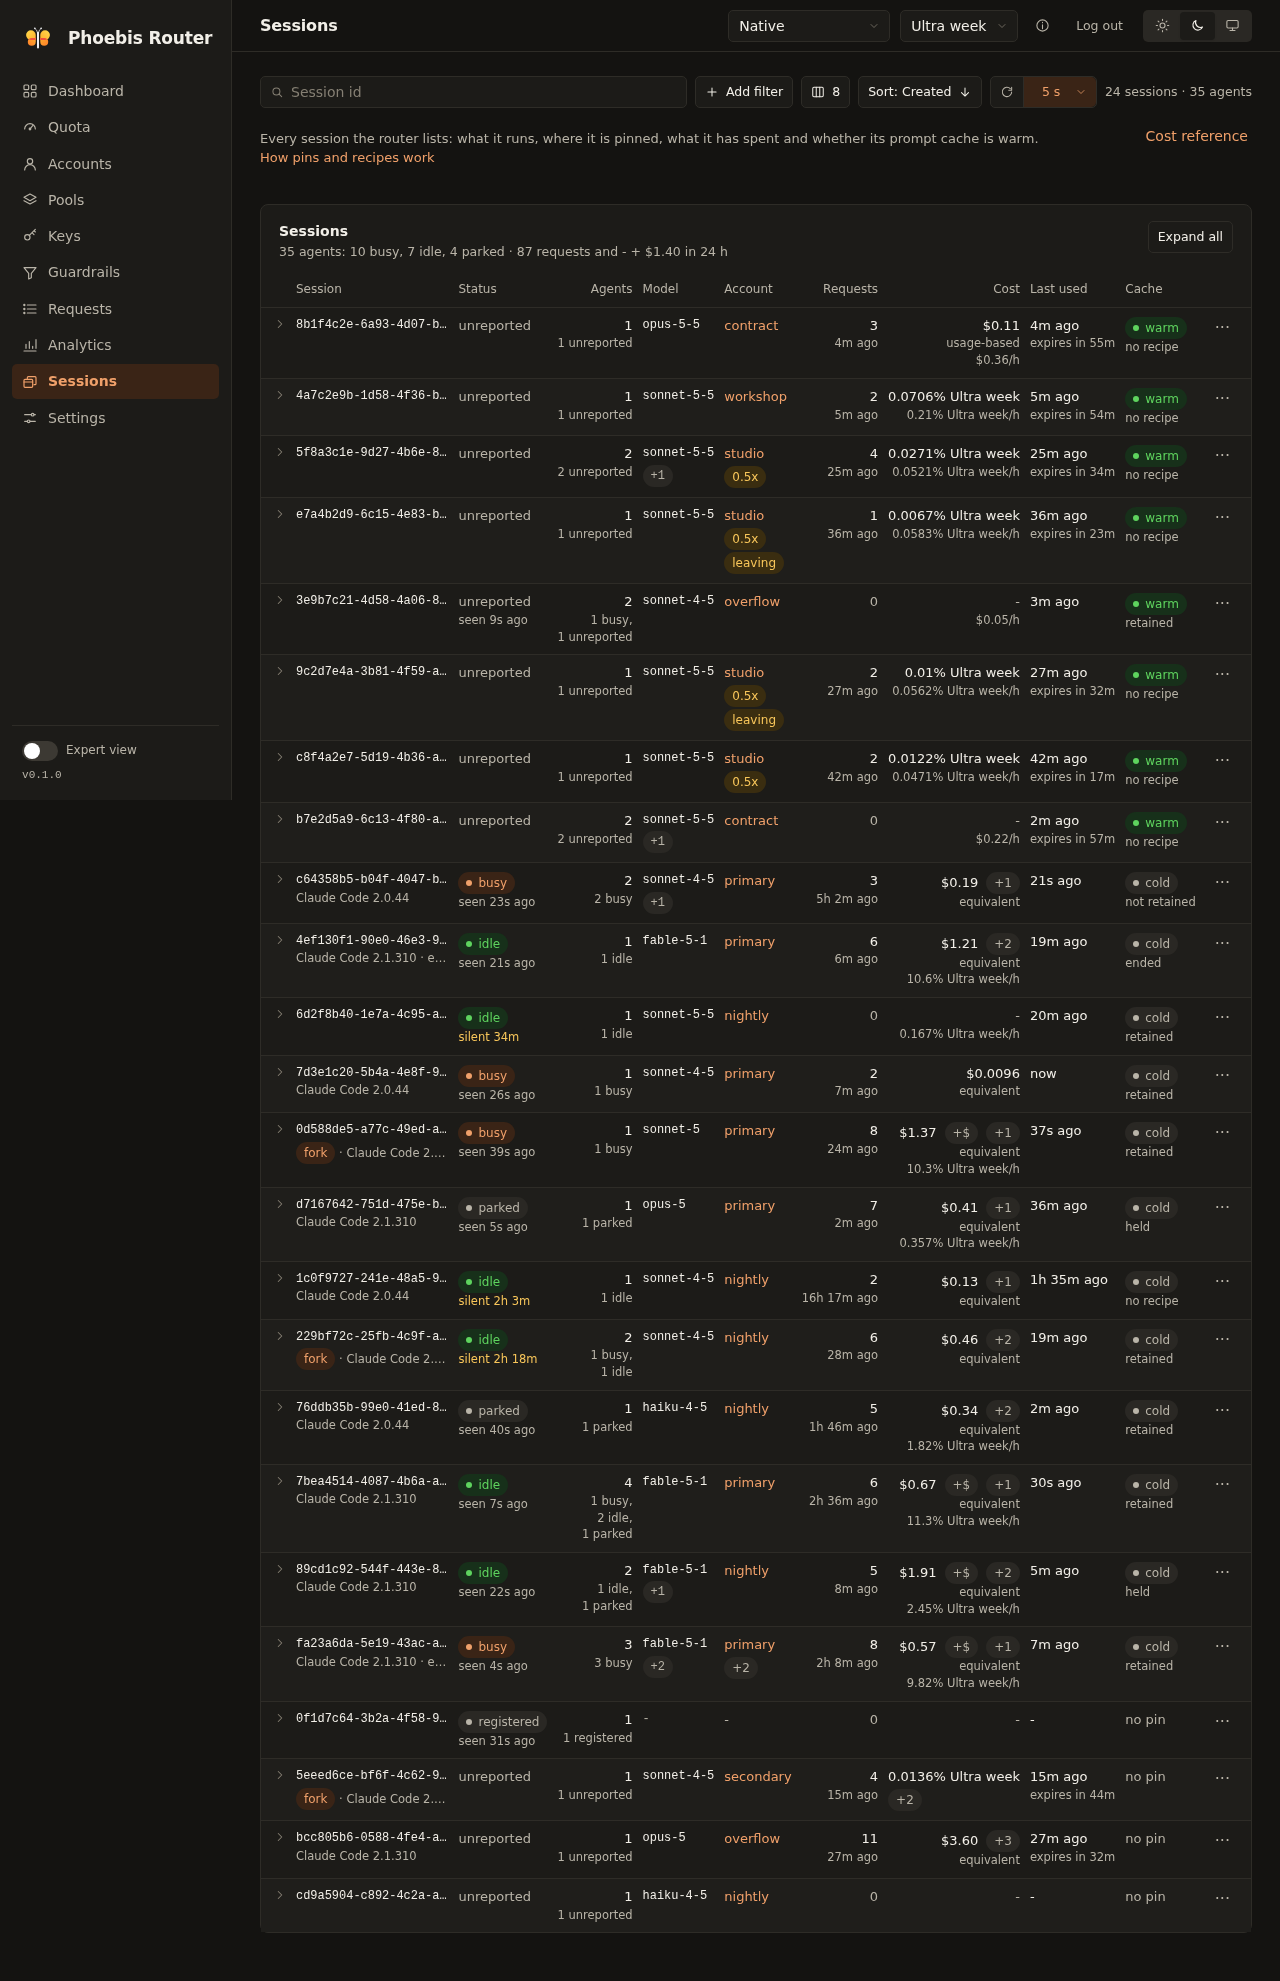
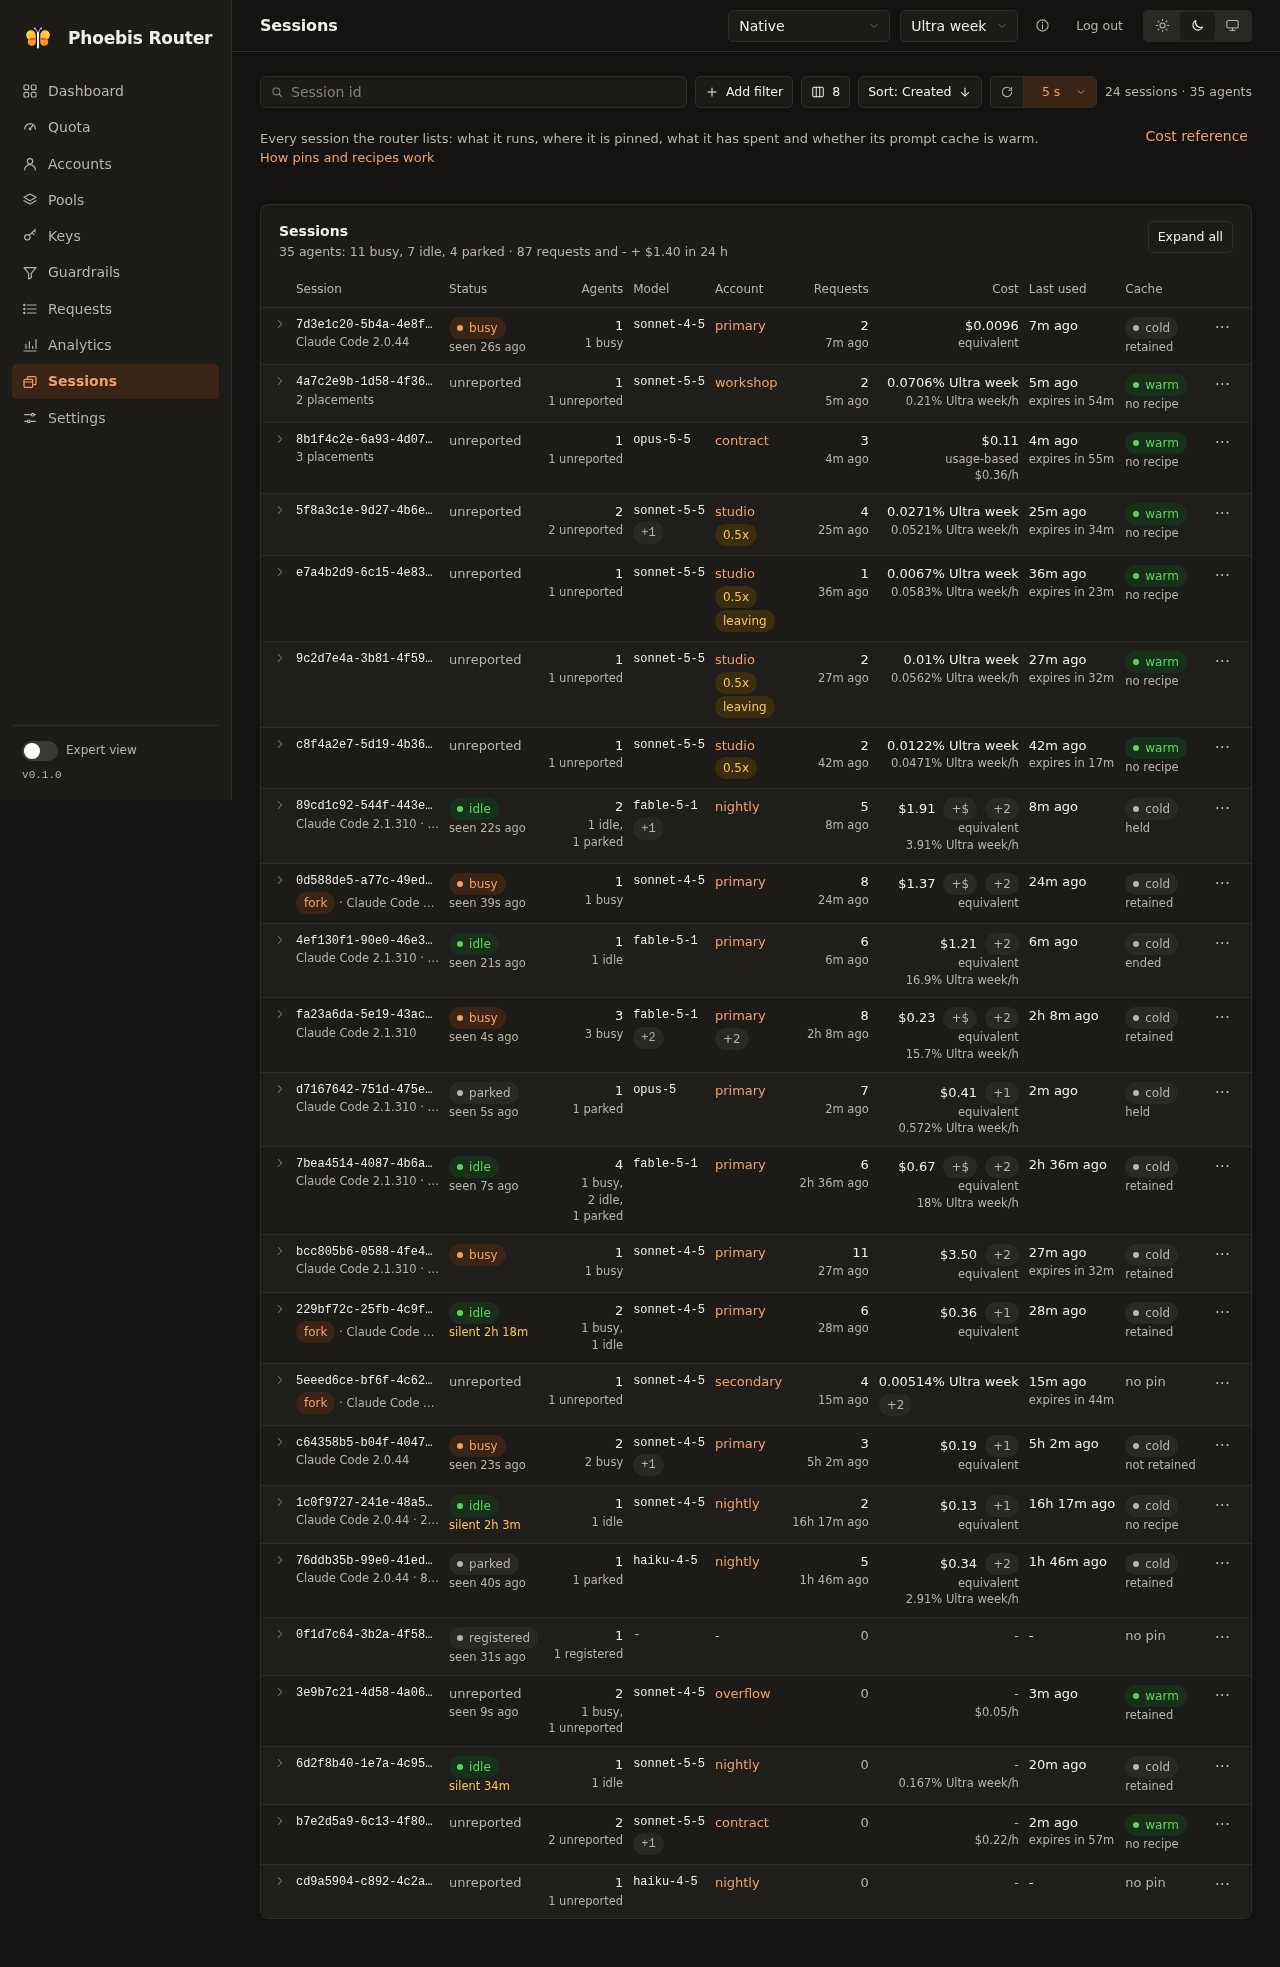
Stop the preview's burn decay at thirty burn averages
The router reads a decayed burn as exactly zero once the pin's last
fold lies more than 30 of its pool's burn averages back, so a
shedding round leaves such a pin out as burning nothing. The Pools
dialog's preview decayed a served burn with no end, so a pin whose
instant lay past that point still walked with a burn a float holds
above zero. The preview's decay now answers zero past the router's
cutoff, by the same strict comparison and the same floor of the
average, and the pin leaves the order and the guard's sum.

The sessions route already serves zero past the cutoff at its read,
so the preview's cutoff holds the rule over the span from the read to
the dialog's clock, and over an older instant a reader hands it.

A new case holds the boundary: an idle pin exactly 30 averages back
still walks as a sliver, and one millisecond further back it leaves,
so the fresh pin's mark would leave its member too little burn.

No pin of the mock lies past the cutoff at its clock, so no figure
the mock draws moves. The Sessions screenshots are retaken: they carry
the view's moves since d740944f6 ("Retake the screenshots of twelve
console views") last took the pair, and the browser pass draws every
shot as it does on the parent commit.

diff --git a/web/src/lib/presets.ts b/web/src/lib/presets.ts
@@ -46,6 +46,9 @@ export function failoverPresetOf(p: Pick<Pool, 'inFlightCap' | 'retryInPlaceSeco
 /** The share of a round's burn sum that its marks leave on the account's unmarked priced pins, as the router's. */
 export const SHED_MARK_SHARE = 0.1;
 
+/** The burn averages after which a decayed burn reads zero, as the router's. */
+const BURN_DECAY_CUTOFF_AVERAGES = 30;
+
 /** The causes a walk that marks nothing answers, in the router's order. */
 const SHED_CAUSES = ['sliver', 'last_pin', 'standing'] as const;
 
@@ -123,12 +126,16 @@ export function shedMarks(
 
 /**
  * A pin's served burn decayed on from `burnAt`, the instant the route decayed it to, to `now`, as the router's average
- * decays between folds. A burn with no instant reads as served.
+ * decays between folds, and 0 once `burnAt` lies more than `BURN_DECAY_CUTOFF_AVERAGES` averages before `now`, the
+ * router's cutoff. The route already serves 0 past the cutoff at its read, so this holds the router's rule over the
+ * span from the read to `now`, and over an older instant a reader hands it. A burn with no instant reads as served.
  */
 function burnDecayed(burn: number, burnAt: string | null, now: number, windowMs: number): number {
   if (burnAt === null) return burn;
+  const span = now - Date.parse(burnAt);
+  if (span > BURN_DECAY_CUTOFF_AVERAGES * Math.max(windowMs, 1)) return 0;
   // An instant after `now` (another clock) decays nothing rather than growing the burn.
-  return burn * Math.exp(-Math.max(now - Date.parse(burnAt), 0) / Math.max(windowMs, 1));
+  return burn * Math.exp(-Math.max(span, 0) / Math.max(windowMs, 1));
 }
 
 /**
